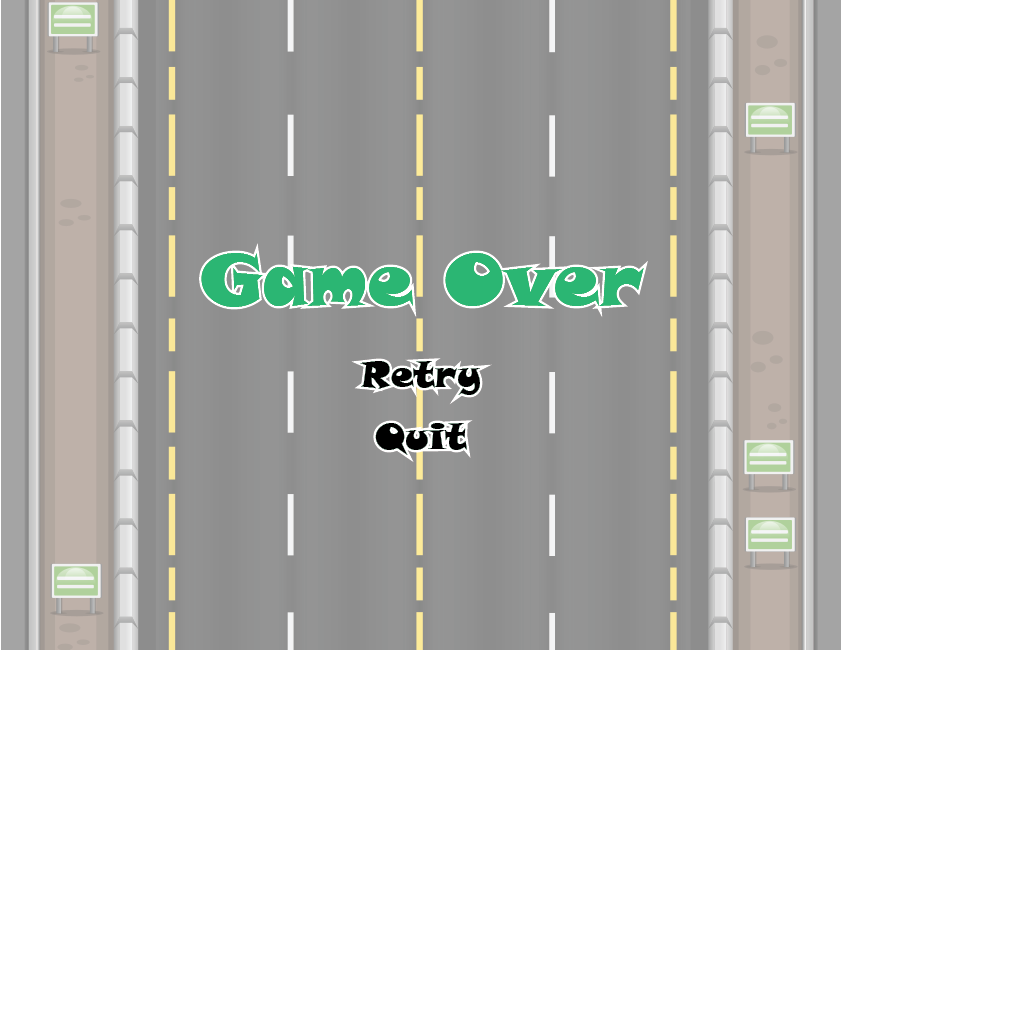
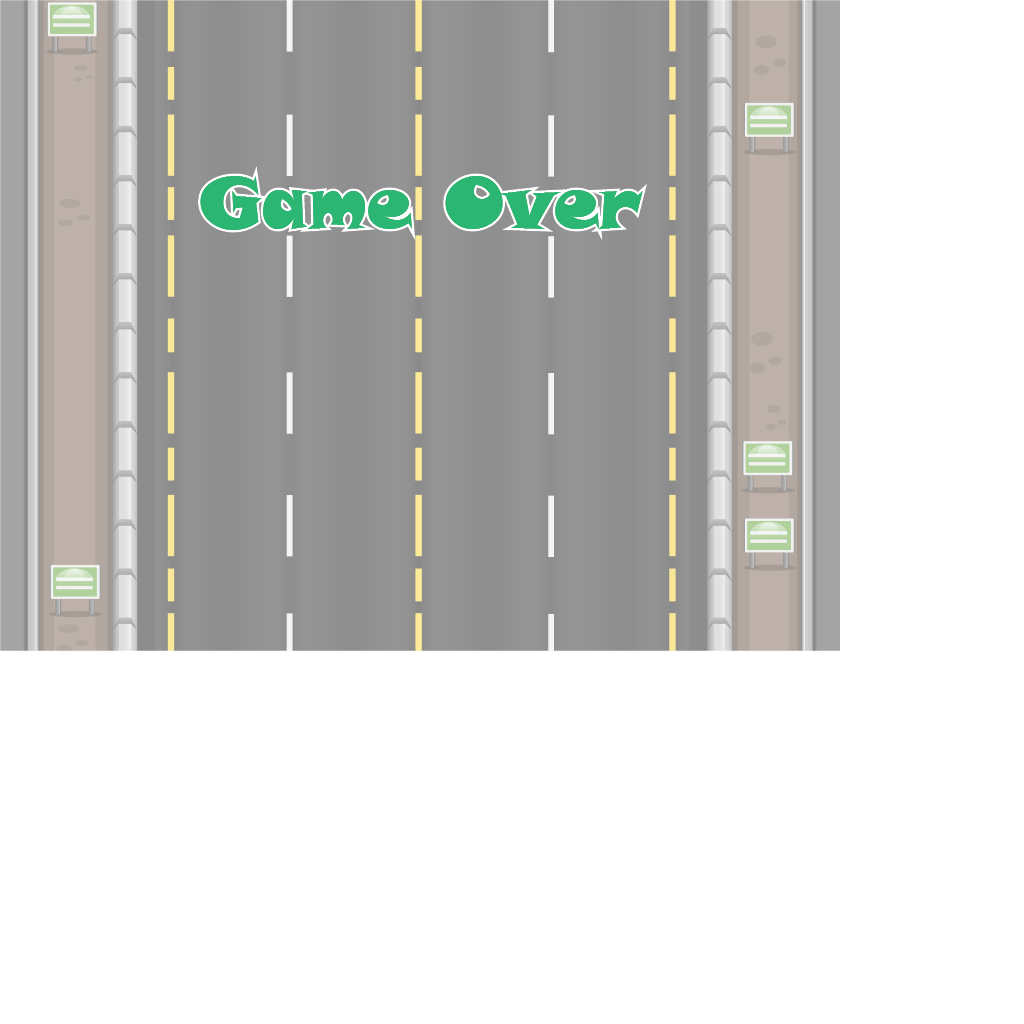
modified menu and gameover background

diff --git a/ZombieSagaF1/ZombieSagaF1.cpp b/ZombieSagaF1/ZombieSagaF1.cpp
@@ -287,6 +287,7 @@ void InitialiseLevel() {
 		D3DXVECTOR2 randomSpawn = D3DXVECTOR2(rand() % (WindowWidth - zombie[i].GetSpriteWidth()), rand() % (WindowHeight - zombie[i].GetSpriteHeight()));
 		zombie[i].Init(randomSpawn, 0.0f, 0.0f, 1.0f, D3DXVECTOR2(0.3f, 0.3f), 0.0f, 0.01f);
 	}
+	
 }
 
 void GetInput()

diff --git a/ZombieSagaF1/GameScene.h b/ZombieSagaF1/GameScene.h
@@ -4,13 +4,8 @@
 class GameScene
 {
 public: 
-	enum GameMode
-	{
-		GM_MENU,
-		GM_GAMEPLAY,
-	};
+	enum GameMode { GM_MENU, GM_GAMEPLAY, GM_GAMEOVER };
 
 	GameMode current_gamemode;
-
 };
 

diff --git a/ZombieSagaF1/GameScene.cpp b/ZombieSagaF1/GameScene.cpp
@@ -1,2 +1,8 @@
 #include "GameScene.h"
+#include "GameObject.h"
+#include "Background.h"
 
+GameScene::GameScene() {
+	Background* menu = new Background(842, 651);
+
+}
